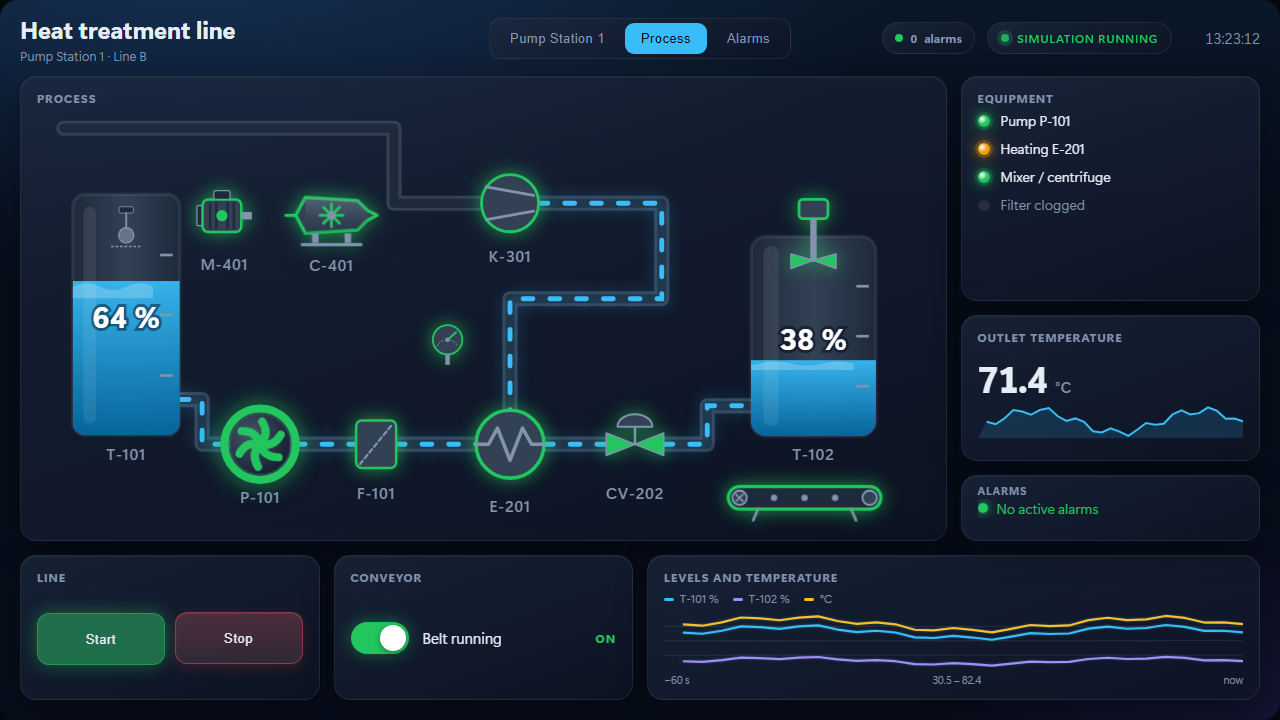
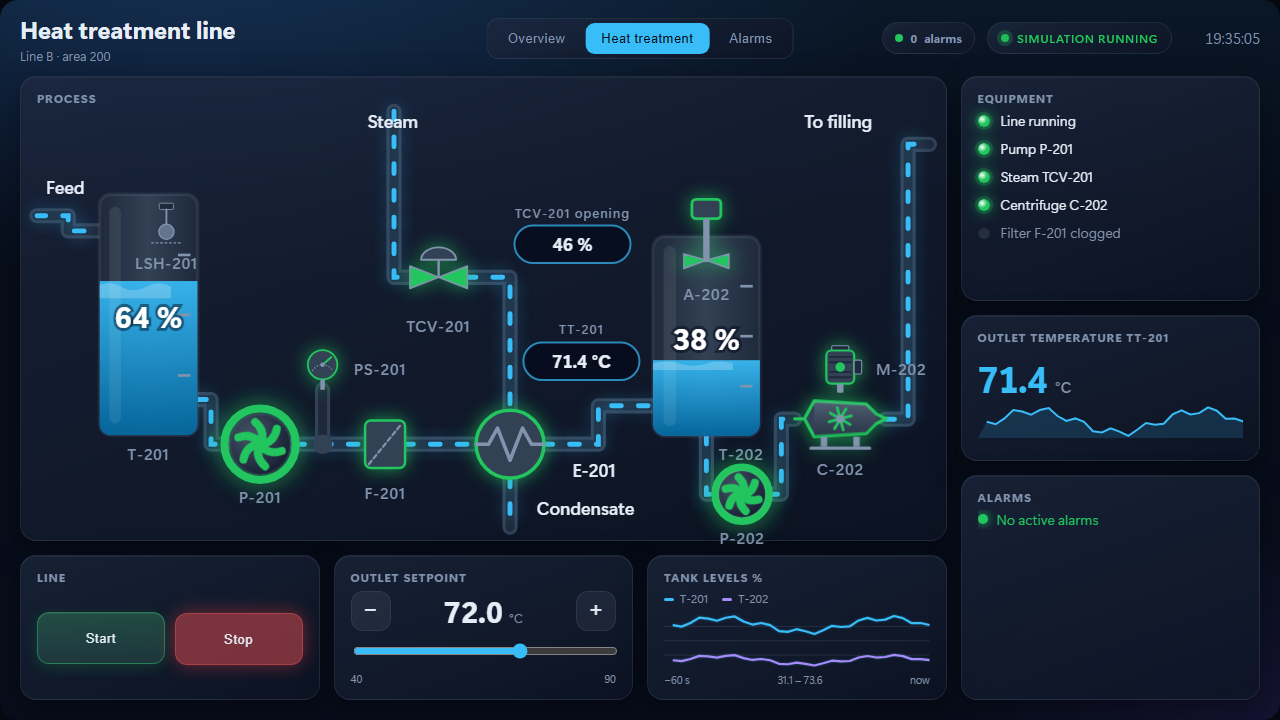
HMI process check, labels beside bottom outlets, and a real heat treatment example
hmi_save_screen now reports equipment no pipe reaches, inlets without outlets, a heat exchanger with one circuit, tanks without inlet or outlet, instruments and sensors away from any line, a motor driving nothing and pipes ending mid-diagram. Labels move beside a symbol or tank when a pipe or a motor shaft runs below it. The README's heat treatment screen is redrawn as a connected process.

diff --git a/src/hmi/route.ts b/src/hmi/route.ts
@@ -19,6 +19,31 @@ export interface Port {
 
 const keyOf = (p: ProcessItem): string | undefined => ("id" in p && p.id) || ("label" in p && p.label) || undefined;
 
+/**
+ * Items (lower-case name) with something below them where the label would go: a pipe at a
+ * port facing down (a tank's or pump's bottom, a symbol's port that faces down after its
+ * rotation), or a motor's shaft pointing down at the machine it drives. Their label goes
+ * beside it instead.
+ */
+export function bottomTaken(items: ProcessItem[], lib: SymbolLib = BUILTIN_SYMBOLS): Set<string> {
+  const used = new Set<string>();
+  for (const p of items) if (p.type === "pipe") for (const e of [p.from, p.to]) if (typeof e === "string") used.add(e.toLowerCase());
+  const out = new Set<string>();
+  for (const p of items) {
+    const key = keyOf(p)?.toLowerCase();
+    if (!key) continue;
+    if (used.has(`${key}.bottom`)) out.add(key);
+    if (p.type !== "symbol") continue;
+    const f = findSymbol(lib, p.symbol);
+    if (!f) continue;
+    for (const [name, port] of Object.entries(symbolPorts(f[1], p, 1))) if (port.dir === "d" && (used.has(`${key}.${name}`) || name === "shaft")) out.add(key);
+  }
+  return out;
+}
+
+/** The name an item is connected by (its id, or its label). */
+export const itemKey = (p: ProcessItem): string | undefined => keyOf(p);
+
 /** The ports of a symbol (keyed by name), for a diagram of the given aspect. */
 export function portsOf(p: ProcessItem, aspect: number, lib: SymbolLib = BUILTIN_SYMBOLS): Record<string, Port> {
   switch (p.type) {
@@ -187,6 +212,88 @@ export function routed(items: ProcessItem[], aspect: number, lib: SymbolLib = BU
   return items.map((p) => (p.type === "pipe" ? { ...p, points: routePipe(p, items, aspect, lib), from: undefined, to: undefined, via: undefined } : p));
 }
 
+/**
+ * Does the diagram make sense as a process? Equipment that no pipe reaches, an inlet
+ * without an outlet, a heat exchanger with one circuit, tanks nothing flows into or out
+ * of, instruments and sensors away from any line or tank, a motor whose shaft touches
+ * nothing, pipes that stop in mid-diagram. Warnings: the screen still saves.
+ */
+export function connectionWarnings(items: ProcessItem[], aspect: number, lib: SymbolLib = BUILTIN_SYMBOLS): string[] {
+  const out: string[] = [];
+  const ends = new Map<string, { port: string; dir: "from" | "to" }[]>();
+  const edge = (e: Pt) => e[0] <= 5 || e[0] >= 95 || e[1] <= 5 || e[1] >= 95;
+  items.forEach((p, i) => {
+    if (p.type !== "pipe") return;
+    for (const [e, dir] of [[p.from, "from"], [p.to, "to"]] as const) {
+      if (typeof e === "string") {
+        const [n, port] = e.split(".") as [string, string];
+        ends.set(n.toLowerCase(), [...(ends.get(n.toLowerCase()) ?? []), { port, dir }]);
+      } else if (Array.isArray(e) && !edge(e as Pt)) out.push(`pipe ${i + 1} ${dir === "from" ? "starts" : "ends"} at [${e[0]}, ${e[1]}], in the middle of the diagram: connect it to a port, a junction, or the diagram's edge (where a line enters or leaves).`);
+    }
+  });
+  const tanks = items.flatMap((p) => (p.type === "tank" ? [p] : []));
+  const onTank = (x: number, y: number, m = 3) => tanks.some((t) => x >= t.x - m && x <= t.x + t.w + m && y >= t.y - m / aspect && y <= t.y + t.h + m / aspect);
+  // Distances in x units (y scaled by the diagram's aspect).
+  const lines = items.flatMap((p) => (p.type === "pipe" ? [routePipe(p, items, aspect, lib)] : []));
+  const nearLine = (x: number, y: number, m: number) =>
+    lines.some((pts) =>
+      pts.slice(1).some((b, k) => {
+        const a = pts[k]!;
+        const [ax, ay, bx, by, px, py] = [a[0], a[1] * aspect, b[0], b[1] * aspect, x, y * aspect];
+        const dx = bx - ax, dy = by - ay;
+        const t = dx || dy ? Math.max(0, Math.min(1, ((px - ax) * dx + (py - ay) * dy) / (dx * dx + dy * dy))) : 0;
+        return Math.hypot(px - (ax + t * dx), py - (ay + t * dy)) <= m;
+      }),
+    );
+  // Boxes of driven equipment, for a motor's shaft.
+  const machines = items.flatMap((p) => {
+    if (p.type === "pump" || p.type === "fan") return [{ x0: p.x - p.size / 2, y0: p.y - p.size / 2 / aspect, x1: p.x + p.size / 2, y1: p.y + p.size / 2 / aspect }];
+    if (p.type !== "symbol") return [];
+    const f = findSymbol(lib, p.symbol);
+    return f && f[0] !== "motor" ? [symbolBox(f[1], p, aspect)] : [];
+  });
+  items.forEach((p, i) => {
+    const key = keyOf(p);
+    const name = key ?? `${p.type === "symbol" ? p.symbol : p.type} ${i + 1}`;
+    const e = key ? (ends.get(key.toLowerCase()) ?? []) : [];
+    const used = new Set(e.map((x) => x.port));
+    const pair = (a: string, b: string, what: string) => {
+      if (used.has(a) && !used.has(b)) out.push(`${name} has a pipe at ${a} but none at ${b}: ${what}`);
+      if (used.has(b) && !used.has(a)) out.push(`${name} has a pipe at ${b} but none at ${a}: ${what}`);
+    };
+    if (p.type === "tank") {
+      if (!e.some((x) => x.dir === "to")) out.push(`tank ${name}: nothing flows in (no pipe with to: '${name}.<port>'). Where does the product come from?`);
+      if (!e.some((x) => x.dir === "from")) out.push(`tank ${name}: nothing flows out (no pipe with from: '${name}.<port>'). Where does the product go?`);
+    } else if (p.type === "pump" || p.type === "fan" || p.type === "valve") {
+      if (!key) out.push(`${p.type} ${i + 1} has no label or id, so no pipe can connect to it.`);
+      else if (!e.length) out.push(`${p.type} ${name} isn't connected: no pipe goes to it.`);
+      else pair("in", "out", "what goes in must come out.");
+    } else if (p.type === "junction") {
+      if (e.length < 2) out.push(`junction ${name} joins ${e.length} pipe(s): a tee joins at least two.`);
+    } else if (p.type === "sensor") {
+      if (!nearLine(p.x, p.y, 9) && !onTank(p.x, p.y, 9)) out.push(`sensor ${name} isn't next to a pipe or tank: put it on the line or vessel it measures.`);
+    } else if (p.type === "symbol") {
+      const f = findSymbol(lib, p.symbol);
+      if (!f) return;
+      const [sym, def] = f;
+      const ports = Object.keys(def.ports);
+      if (sym === "mixer" || sym === "level_switch") {
+        if (!onTank(p.x, p.y)) out.push(`${sym} ${name} isn't on a tank: an agitator or a level switch is mounted on the vessel it serves.`);
+      } else if (ports.includes("shaft")) {
+        const at = symbolPorts(def, p, aspect).shaft!.at;
+        if (!machines.some((b) => at[0] >= b.x0 - 2 && at[0] <= b.x1 + 2 && at[1] >= b.y0 - 2 / aspect && at[1] <= b.y1 + 2 / aspect)) out.push(`${sym} ${name} drives nothing: put its shaft against the machine it drives.`);
+      } else if (!ports.length) {
+        return; // a picture without ports (a custom symbol can be decoration)
+      } else if (!key) out.push(`${sym} ${i + 1} has no label or id, so no pipe can connect to it.`);
+      else if (!e.length) out.push(sym === "pressure_switch" ? `pressure_switch ${name} isn't connected: run a short pipe from its bottom to the line it measures (a junction on that pipe).` : `${sym} ${name} isn't connected: no pipe goes to it (ports: ${ports.join(", ")}).`);
+      else if (sym === "heat_exchanger") {
+        if (!(used.has("in") && used.has("out") && used.has("top") && used.has("bottom"))) out.push(`heat exchanger ${name} needs both circuits: the product in and out (in, out) and the heating or cooling medium in and out (top, bottom).`);
+      } else if (ports.includes("in") && ports.includes("out")) pair("in", "out", "what goes in must come out.");
+    }
+  });
+  return out;
+}
+
 /** Symbols that overlap each other or leave the diagram, as warnings (the screen still saves). */
 export function overlapWarnings(items: ProcessItem[], aspect: number, lib: SymbolLib = BUILTIN_SYMBOLS): string[] {
   type Box = { name: string; x0: number; y0: number; x1: number; y1: number };
@@ -200,7 +307,8 @@ export function overlapWarnings(items: ProcessItem[], aspect: number, lib: Symbo
     } else if (p.type === "symbol") {
       const f = findSymbol(lib, p.symbol);
       // Mounted symbols (agitator, level switch) are meant to sit on a tank: no overlap warning for them.
-      if (f && !["mixer", "level_switch"].includes(f[0])) boxes.push({ name: `${p.symbol} ${keyOf(p) ?? i + 1}`, ...symbolBox(f[1], p, aspect) });
+      // A motor touches the machine it drives.
+      if (f && !["mixer", "level_switch", "motor"].includes(f[0])) boxes.push({ name: `${p.symbol} ${keyOf(p) ?? i + 1}`, ...symbolBox(f[1], p, aspect) });
     } else if (p.type === "sensor") boxes.push({ name, x0: p.x - 7, y0: p.y - 2.2 / aspect, x1: p.x + 7, y1: p.y + 2.2 / aspect });
   });
   const out: string[] = [];

diff --git a/test/hmi.test.ts b/test/hmi.test.ts
@@ -8,7 +8,7 @@ import { RESOURCE_MIME_TYPE } from "@modelcontextprotocol/ext-apps/server";
 import { ProjectCache } from "../src/codesys/cache.js";
 import { renderScreen } from "../src/hmi/render.js";
 import { accessRights, GAUGE_STEPS, nativePlan, onColor, paletteFor, type NativeElement } from "../src/hmi/native.js";
-import { overlapWarnings, portsOf, routePipe, routeProblems } from "../src/hmi/route.js";
+import { bottomTaken, connectionWarnings, overlapWarnings, portsOf, routePipe, routeProblems } from "../src/hmi/route.js";
 import { TEMPLATES } from "../src/hmi/templates.js";
 import { canvasOf } from "../src/hmi/render.js";
 import type { ProcessItem } from "../src/hmi/spec.js";
@@ -113,6 +113,66 @@ describe("HMI structure", () => {
     const w = overlapWarnings(items, 0.5);
     expect(w).toContain("tank T-1 overlaps pump P-1.");
     expect(w).toContain("pump P-2 reaches outside the diagram (0..100).");
+  });
+});
+
+describe("process checks: is the diagram a process?", () => {
+  const P = (items: unknown[]) => items as ProcessItem[];
+  it("reports floating equipment, missing inlets and outlets, a one-circuit heat exchanger and stray instruments", () => {
+    const w = connectionWarnings(
+      P([
+        { type: "tank", x: 5, y: 20, w: 10, h: 50, level: "a", label: "T-1" },
+        { type: "pump", x: 30, y: 80, size: 8, running: "b", label: "P-1" },
+        { type: "symbol", symbol: "heat_exchanger", x: 50, y: 80, size: 10, label: "E-1" },
+        { type: "symbol", symbol: "motor", x: 70, y: 20, size: 6, label: "M-1" },
+        { type: "symbol", symbol: "pressure_switch", x: 40, y: 40, size: 5, label: "PS-1" },
+        { type: "symbol", symbol: "level_switch", x: 80, y: 50, size: 5, label: "LS-1" },
+        { type: "sensor", x: 85, y: 10, value: "c", label: "TT-1" },
+        { type: "pipe", from: "T-1.right", to: "P-1.in" },
+        { type: "pipe", from: "P-1.out", to: "E-1.in" },
+        { type: "pipe", from: "E-1.out", to: [60, 50] },
+      ]),
+      0.5,
+    );
+    const all = w.join("\n");
+    expect(all).toContain("tank T-1: nothing flows in");
+    expect(all).not.toContain("tank T-1: nothing flows out");
+    expect(all).toContain("heat exchanger E-1 needs both circuits");
+    expect(all).toContain("motor M-1 drives nothing");
+    expect(all).toContain("pressure_switch PS-1 isn't connected: run a short pipe from its bottom");
+    expect(all).toContain("level_switch LS-1 isn't on a tank");
+    expect(all).toContain("sensor TT-1 isn't next to a pipe or tank");
+    expect(all).toContain("pipe 10 ends at [60, 50], in the middle of the diagram");
+    expect(all).not.toContain("P-1");
+  });
+
+  it("is quiet for a connected line, and the built-in templates pass", () => {
+    const ok = P([
+      { type: "tank", x: 5, y: 20, w: 10, h: 50, level: "a", label: "T-1" },
+      { type: "symbol", symbol: "level_switch", x: 10, y: 25, size: 4, label: "LS-1" },
+      { type: "pump", x: 30, y: 80, size: 8, running: "b", label: "P-1" },
+      { type: "symbol", symbol: "motor", x: 30, y: 68, size: 6, rotate: 90, label: "M-1" },
+      { type: "sensor", x: 45, y: 74, value: "c", label: "PT-1" },
+      { type: "pipe", from: [0, 25], to: "T-1.left-high" },
+      { type: "pipe", from: "T-1.right", to: "P-1.in" },
+      { type: "pipe", from: "P-1.out", to: [100, 80] },
+    ]);
+    expect(connectionWarnings(ok, 0.5)).toEqual([]);
+    for (const t of Object.values(TEMPLATES)) {
+      const s = screenSchema.parse((t as { screen?: unknown }).screen ?? t);
+      for (const w of s.widgets) if (w.type === "process") expect(connectionWarnings(w.items, 0.5)).toEqual([]);
+    }
+  });
+
+  it("moves a label aside when a pipe or a motor's shaft runs below the item", () => {
+    const items = P([
+      { type: "tank", x: 5, y: 20, w: 10, h: 50, level: "a", label: "T-1" },
+      { type: "pump", x: 30, y: 90, size: 6, running: "b", label: "P-1" },
+      { type: "symbol", symbol: "motor", x: 60, y: 40, size: 6, rotate: 90, label: "M-1" },
+      { type: "symbol", symbol: "motor", x: 80, y: 40, size: 6, label: "M-2" },
+      { type: "pipe", from: "T-1.bottom", to: "P-1.in" },
+    ]);
+    expect([...bottomTaken(items)].sort()).toEqual(["m-1", "t-1"]);
   });
 });
 

diff --git a/src/hmi/render.ts b/src/hmi/render.ts
@@ -6,7 +6,7 @@
  * applies values through CSS variables and classes, so animations keep running.
  */
 import { darkTextOn } from "./color.js";
-import { routed } from "./route.js";
+import { routed, bottomTaken, itemKey } from "./route.js";
 import type { Faceplate, ProcessItem, Screen, Tone, Widget } from "./spec.js";
 import { BUILTIN_SYMBOLS, findSymbol, scopeIds, symbolBox, symbolSize, type SymbolDef, type SymbolLib } from "./symbols.js";
 
@@ -188,8 +188,9 @@ function widget(w: Widget, box: { w: number; h: number }, bind: Bind, id: (p: st
       const vw = 100;
       const vh = r1((100 * Math.max(60, bodyH)) / Math.max(60, box.w - 24));
       const sy = vh / 100;
+      const under = bottomTaken(w.items, lib);
       const items = routed(w.items, sy, lib).sort((a, b) => (a.type === "pipe" ? -1 : 0) - (b.type === "pipe" ? -1 : 0));
-      return `<svg class="proc" viewBox="0 0 ${vw} ${vh}" preserveAspectRatio="xMidYMid meet">${items.map((p) => processSvg(p, sy, bind, id, face, lib)).join("")}</svg>`;
+      return `<svg class="proc" viewBox="0 0 ${vw} ${vh}" preserveAspectRatio="xMidYMid meet">${items.map((p) => processSvg(p, sy, bind, id, face, lib, under)).join("")}</svg>`;
     }
   }
 }
@@ -214,9 +215,11 @@ export function symbolMarkup(name: string, d: SymbolDef, size: number, rotate = 
   return `<g${rotate ? ` transform="rotate(${rotate})"` : ""}><svg x="${r1(-w / 2)}" y="${r1(-h / 2)}" width="${r1(w)}" height="${r1(h)}" viewBox="0 0 ${d.viewBox[0]} ${d.viewBox[1]}" overflow="visible">${scopeIds(d.svg, `sym-${name}`)}</svg></g>`;
 }
 
-function processSvg(p: ProcessItem, sy: number, bind: Bind, id: (p: string) => string, face: Face, lib: SymbolLib): string {
+function processSvg(p: ProcessItem, sy: number, bind: Bind, id: (p: string) => string, face: Face, lib: SymbolLib, under: Set<string> = new Set()): string {
   const Y = (y: number) => r1(y * sy);
-  const label = (x: number, y: number, t?: string) => (t ? `<text class="p-label" x="${r1(x)}" y="${Y(y)}">${esc(t)}</text>` : "");
+  // A pipe leaving through the bottom runs where the label would be: the label goes to its right.
+  const aside = under.has((itemKey(p) ?? "").toLowerCase());
+  const label = (x: number, y: number, t?: string) => (t ? (aside ? `<text class="p-label left" x="${r1(x + 1.4)}" y="${Y(y)}">${esc(t)}</text>` : `<text class="p-label" x="${r1(x)}" y="${Y(y)}">${esc(t)}</text>`) : "");
   switch (p.type) {
     case "symbol": {
       const f = findSymbol(lib, p.symbol);
@@ -224,7 +227,7 @@ function processSvg(p: ProcessItem, sy: number, bind: Bind, id: (p: string) => s
       const [name, d] = f;
       const box = symbolBox(d, p, sy);
       const click = p.faceplate ? `class="clickable" ${face(p.label ?? name, p.faceplate, { running: p.on, fault: p.fault })}` : "";
-      return `<g ${p.fault ? bind({ kind: "fault", v: p.fault }) : ""} ${click}><g class="sym sym-${esc(name)}" ${p.on ? bind({ kind: "on", v: p.on }) : ""}><g transform="translate(${r1(p.x)} ${Y(p.y)})">${symbolMarkup(name, d, p.size, p.rotate ?? 0)}</g></g>${label(p.x, box.y1 + 2.6 / sy, p.label)}</g>`;
+      return `<g ${p.fault ? bind({ kind: "fault", v: p.fault }) : ""} ${click}><g class="sym sym-${esc(name)}" ${p.on ? bind({ kind: "on", v: p.on }) : ""}><g transform="translate(${r1(p.x)} ${Y(p.y)})">${symbolMarkup(name, d, p.size, p.rotate ?? 0)}</g></g>${aside && p.label ? `<text class="p-label left" x="${r1(box.x1 + 1)}" y="${r1(p.y * sy + 0.6)}">${esc(p.label)}</text>` : label(p.x, box.y1 + 2.6 / sy, p.label)}</g>`;
     }
     case "pipe": {
       const d = (p.points ?? []).map(([x, y], i) => `${i ? "L" : "M"}${r1(x)} ${Y(y)}`).join(" ");

diff --git a/src/hmi/tools.ts b/src/hmi/tools.ts
@@ -15,7 +15,7 @@ import { findBrowser, hmiScript, previewValues, screenshot, staticPage, symbolSh
 import { BUILTIN_SYMBOLS, importSvg, svgProblems, symbolSchema, type SymbolDef } from "./symbols.js";
 import { nativePlan } from "./native.js";
 import { canvasOf, tileBox } from "./render.js";
-import { overlapWarnings } from "./route.js";
+import { connectionWarnings, overlapWarnings } from "./route.js";
 import { TEMPLATES } from "./templates.js";
 import { allAlarms, layoutProblems, screenSchema, screenTexts, screenVariables, translateScreen } from "./spec.js";
 
@@ -31,6 +31,7 @@ Connect pipes to ports, never by guessing points: {type: 'pipe', from: 'T-101.ri
 Variables are full instance paths: 'PLC_PRG.fbPump.xRunning', 'GVL.rLevel'. bands colour a value by range: [{from: 0, tone: 'accent'}, {from: 90, tone: 'alarm'}]. Tones: accent, ok, warn, alarm, neutral.
 Look: theme 'dark' (default), 'light' or 'contrast' (black and white, strong colours, no glow: bright light, poor eyesight), per page; accent: '#e30613' puts the company colour on highlights, flow and the current page (text on it turns black or white to stay readable). Pipes with flow show moving dashes, in the browser and in CODESYS.
 access: {min: 'Maintenance'} on a tile lets only that group and up operate it in CODESYS (after Login; lower groups and nobody logged in see it greyed out, or not at all with below: 'hide'). Groups: Operator, Maintenance, Admin.
+Make the diagram a process: every piece of equipment on a pipe (in and out), tanks fed and emptied, a heat exchanger with both circuits (product in/out, heating medium top/bottom), instruments on the line or vessel they measure (a pressure switch through a short pipe to a junction), a motor's shaft against the machine it drives, line ends at the diagram's edge with a label (Feed, Steam, To filling); hmi_save_screen lists what doesn't fit.
 Good screens: the process diagram large on the left (about 8x5), key numbers and status on the right, controls and trends along the bottom; titles short; tag names on symbols (P-101, T-101).`;
 
 export function registerHmiActions(reg: RegisterAction, ctx: AppContext, hmi: HmiService, run: (fn: () => Promise<string>) => Promise<ActionResult>): void {
@@ -54,8 +55,12 @@ export function registerHmiActions(reg: RegisterAction, ctx: AppContext, hmi: Hm
         const b = tileBox(screen, w.at);
         return overlapWarnings(w.items, (b.h - 46) / (b.w - 32), lib);
       });
-      const warn0 = looks.length ? `
-Layout: ${looks.join(" ")}` : "";
+      const flow = screen.widgets.flatMap((w) => {
+        if (w.type !== "process") return [];
+        const b = tileBox(screen, w.at);
+        return connectionWarnings(w.items, (b.h - 46) / (b.w - 32), lib);
+      });
+      const warn0 = (looks.length ? `\nLayout: ${looks.join(" ")}` : "") + (flow.length ? `\nProcess (check these: a diagram should show how the product flows):\n- ${flow.join("\n- ")}` : "");
       const warn = warn0 + (unknown.length ? `\nCheck these: no object named ${unknown.map((u) => `'${u}'`).join(", ")} in the project (the first part of a variable path must be a program or GVL).` : "");
       return text(`${r.replaced ? "Replaced" : "Saved"} screen '${screen.name}' (${screen.widgets.length} widgets, ${vars.length} variables) in ${r.file}.${warn}\nCall hmi_screenshot to see it.`);
     },

diff --git a/src/hmi/native.ts b/src/hmi/native.ts
@@ -6,7 +6,7 @@
  */
 import { darkTextOn } from "./color.js";
 import { canvasOf, tileBox } from "./render.js";
-import { routed } from "./route.js";
+import { routed, bottomTaken, itemKey } from "./route.js";
 import type { Faceplate, ProcessItem, Screen, Tone, Widget } from "./spec.js";
 import { screenVariables, USER_GROUPS } from "./spec.js";
 import { BUILTIN_SYMBOLS, findSymbol, symbolPicture, symbolSize, type SymbolColors, type SymbolLib } from "./symbols.js";
@@ -560,15 +560,17 @@ export function nativePlan(screen: Screen, pages: { name: string; title: string 
         const sy = box.h / 100;
         const X = (x: number) => box.x + x * sx;
         const Y = (y: number) => box.y + y * sy;
+        const under = bottomTaken(w.items, lib);
         const items = routed(w.items, box.h / box.w, lib).sort((a, b2) => (a.type === "pipe" ? -1 : 0) - (b2.type === "pipe" ? -1 : 0));
-        for (const it of items) processItem(it, X, Y, sx);
+        for (const it of items) processItem(it, X, Y, sx, under);
         break;
       }
     }
   }
 
-  function processItem(it: ProcessItem, X: (x: number) => number, Y: (y: number) => number, sx: number) {
-    const label = (cx: number, y: number, t?: string) => t && els.push(text(cx - 60, y, 120, 18, t, [SEMI, 8.5], p.muted, "HCENTER"));
+  function processItem(it: ProcessItem, X: (x: number) => number, Y: (y: number) => number, sx: number, under: Set<string> = new Set()) {
+    // A pipe leaving through the bottom runs where the label would be: the label goes to its right.
+    const label = (cx: number, y: number, t?: string) => t && els.push(under.has((itemKey(it) ?? "").toLowerCase()) ? text(cx + 6, y, 120, 18, t, [SEMI, 8.5], p.muted, "LEFT") : text(cx - 60, y, 120, 18, t, [SEMI, 8.5], p.muted, "HCENTER"));
     switch (it.type) {
       case "symbol": {
         const f = findSymbol(lib, it.symbol);
@@ -590,7 +592,9 @@ export function nativePlan(screen: Screen, pages: { name: string; title: string 
         if (it.fault) expr = `SEL(${it.fault}, ${expr}, '${pic("fault")}')`;
         els.push({ kind: "image", x: r(cx - wpx / 2), y: r(cy - hpx / 2), w: wpx, h: hpx, props: { "Static ID": pic("off"), ...(it.on || it.fault ? { "Bitmap ID variable.Bitmap ID": expr } : {}) } });
         if (it.faceplate) els.push({ kind: "rect", x: r(cx - wpx / 2), y: r(cy - hpx / 2), w: wpx, h: hpx, fill: null, frame: null, dialog: { name: dialogFor(it.label ?? name, it.faceplate, it), x: r(cx + wpx / 2 + 10), y: r(cy - 60) } });
-        label(cx, cy + hpx / 2 + 2, it.label);
+        // Something below it (a pipe, or the machine a motor drives): the label goes beside it.
+        if (it.label && under.has((itemKey(it) ?? "").toLowerCase())) els.push(text(cx + wpx / 2 + 6, cy - 9, 120, 18, it.label, [SEMI, 8.5], p.muted, "LEFT"));
+        else label(cx, cy + hpx / 2 + 2, it.label);
         break;
       }
       case "pipe": {

diff --git a/test/symbols.test.ts b/test/symbols.test.ts
@@ -96,9 +96,11 @@ describe("symbols on a diagram", () => {
 
   it("know the project's own symbols, and warn when symbols overlap", () => {
     const own = { centrifuge: symbolSchema.parse({ svg: `<circle cx="50" cy="50" r="40" fill="var(--state)"/>`, ports: { in: { x: 10, y: 50, dir: "left" } } }) };
-    const w = items([{ type: "symbol", symbol: "centrifuge", label: "C-1", x: 30, y: 50, size: 20 }, { type: "symbol", symbol: "motor", x: 38, y: 50, size: 12 }, { type: "pipe", from: [0, 50], to: "C-1.in" }]);
+    const w = items([{ type: "symbol", symbol: "centrifuge", label: "C-1", x: 30, y: 50, size: 20 }, { type: "symbol", symbol: "filter", x: 38, y: 50, size: 12 }, { type: "symbol", symbol: "motor", x: 20, y: 50, size: 12 }, { type: "pipe", from: [0, 50], to: "C-1.in" }]);
     expect(routeProblems(w.items, { ...BUILTIN_SYMBOLS, ...own })).toEqual([]);
-    expect(overlapWarnings(w.items, 0.5, { ...BUILTIN_SYMBOLS, ...own }).join(" ")).toMatch(/centrifuge C-1 overlaps motor/);
+    expect(overlapWarnings(w.items, 0.5, { ...BUILTIN_SYMBOLS, ...own }).join(" ")).toMatch(/centrifuge C-1 overlaps filter/);
+    // A motor touches the machine it drives: no overlap warning for it.
+    expect(overlapWarnings(w.items, 0.5, { ...BUILTIN_SYMBOLS, ...own }).join(" ")).not.toMatch(/motor/);
   });
 
   const screen = screenSchema.parse({

diff --git a/README.md b/README.md
@@ -215,7 +215,14 @@ bound to your PLC variables.
 
 ![The standard process symbols in their on, off and fault colours, and a decanter centrifuge drawn as the project's own SVG symbol](docs/images/hmi-symbols.png)
 
-![A heat treatment line built from the symbols: tank with level switch, pump, filter, heat exchanger fed by a compressor, control valve, a second tank with an agitator, a motor-driven centrifuge and a conveyor](docs/images/hmi-process.png)
+![A heat treatment line built from the symbols: feed into tank T-201 with a high level switch, pump P-201 with a pressure switch on its outlet, filter F-201, heat exchanger E-201 heated by steam through control valve TCV-201 (opening 46 %) with the condensate returned, outlet temperature TT-201 on the line, tank T-202 with an agitator, pump P-202 feeding centrifuge C-202 driven by motor M-202, and the product out to filling](docs/images/hmi-process.png)
+
+When a screen is saved, the toolkit also checks that the diagram is a
+process: it reports equipment no pipe reaches, an inlet without an outlet, a
+heat exchanger with one circuit connected, tanks nothing flows into or out of,
+instruments and sensors away from any line or vessel, a motor whose shaft
+touches nothing, and pipes that end in mid-diagram, so Claude fixes them
+before you look.
 
 ![The same heat treatment line in the high-contrast theme: black background, white outlines, cyan flow and green running symbols](docs/images/hmi-contrast.png)
 

diff --git a/README.zh-CN.md b/README.zh-CN.md
@@ -177,7 +177,10 @@ Cline、Trae、通义灵码、Cursor、Claude Desktop 等使用 `mcpServers` 配
 
 ![标准工艺符号的运行、关闭和故障颜色，以及一个作为项目自定义 SVG 符号绘制的卧螺离心机](docs/images/hmi-symbols.png)
 
-![用这些符号搭建的热处理线：带液位开关的储罐、泵、过滤器、由压缩机供气的换热器、调节阀、带搅拌器的第二个储罐、电机驱动的离心机和输送带](docs/images/hmi-process.png)
+![用这些符号搭建的热处理线：进料进入带高液位开关的储罐 T-201，泵 P-201 出口装有压力开关，过滤器 F-201，换热器 E-201 由经调节阀 TCV-201（开度 46%）的蒸汽加热并回收冷凝水，管线上的出口温度 TT-201，带搅拌器的储罐 T-202，泵 P-202 向电机 M-202 驱动的离心机 C-202 供料，产品送往灌装](docs/images/hmi-process.png)
+
+保存画面时，工具包还会检查流程图是否构成一个真实的工艺：报告没有管道连接的设备、只有入口没有出口的设备、只连接了一侧回路的换热器、
+没有进料或出料的储罐、远离管线或容器的仪表和传感器、轴没有连接任何设备的电机，以及在图中间中断的管道，让 Claude 在你查看之前就修正它们。
 
 HMI 只写入 CODESYS 自带的仿真，不会连接真实控制器。
 

diff --git a/CHANGELOG.md b/CHANGELOG.md
@@ -7,6 +7,20 @@ and this project adheres to [Semantic Versioning](https://semver.org/spec/v2.0.0
 
 ## [Unreleased]
 
+### Added
+- Process check on `hmi_save_screen`: it reports equipment no pipe reaches,
+  an inlet without an outlet, a heat exchanger with one circuit connected,
+  tanks nothing flows into or out of, instruments and sensors away from any
+  line or vessel, a motor whose shaft touches nothing, and pipes that end in
+  mid-diagram. The screen still saves; Claude gets the list to fix.
+
+### Changed
+- A label moves beside its symbol or tank when a pipe or a motor's shaft runs
+  below it, instead of being crossed by it (browser and CODESYS).
+- The heat treatment example in the README is now a real process: feed,
+  steam heating through a control valve with condensate return, the outlet
+  temperature on the line, and a pump feeding a motor-driven centrifuge.
+
 ## [2.10.0] - 2026-11-14
 
 ### Added
